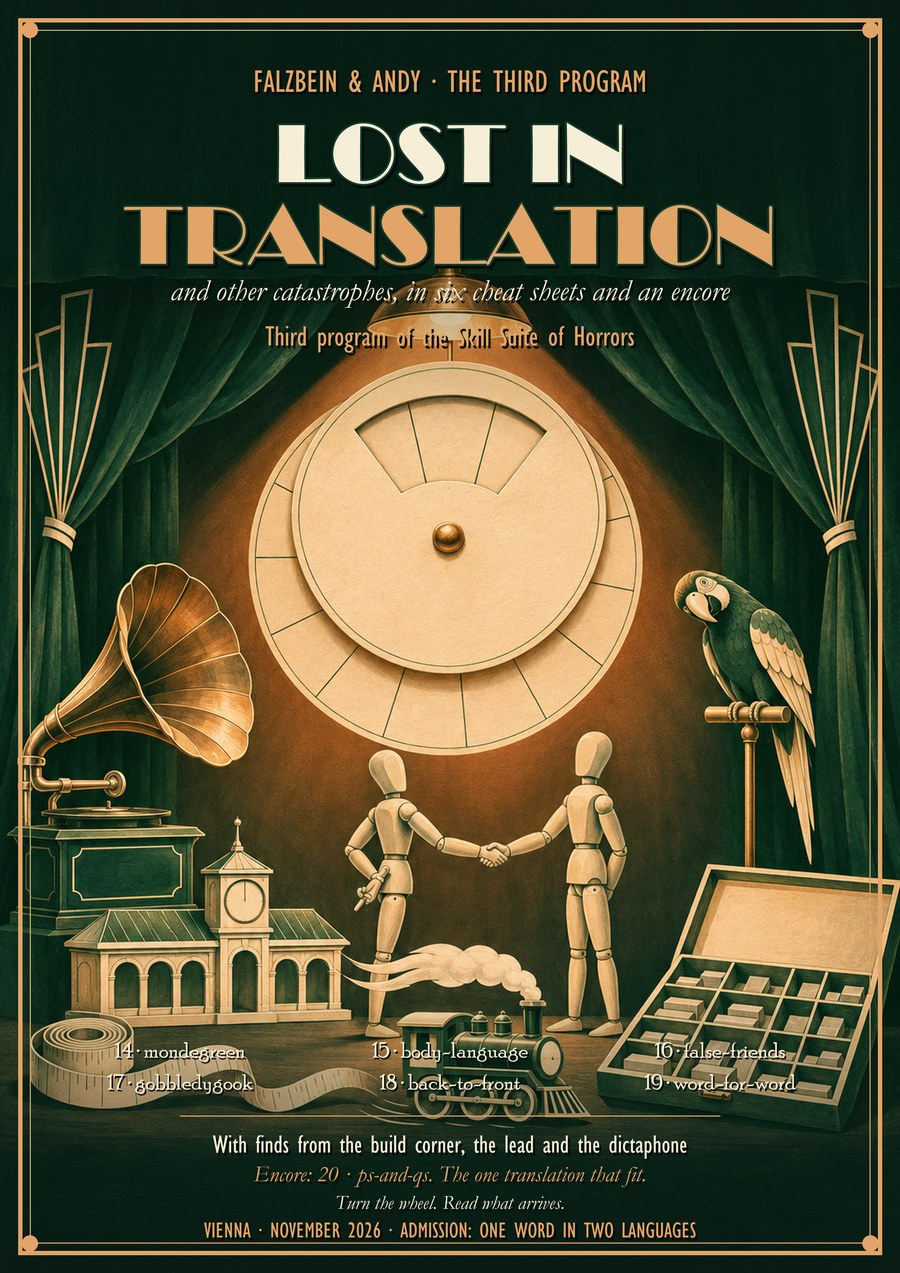
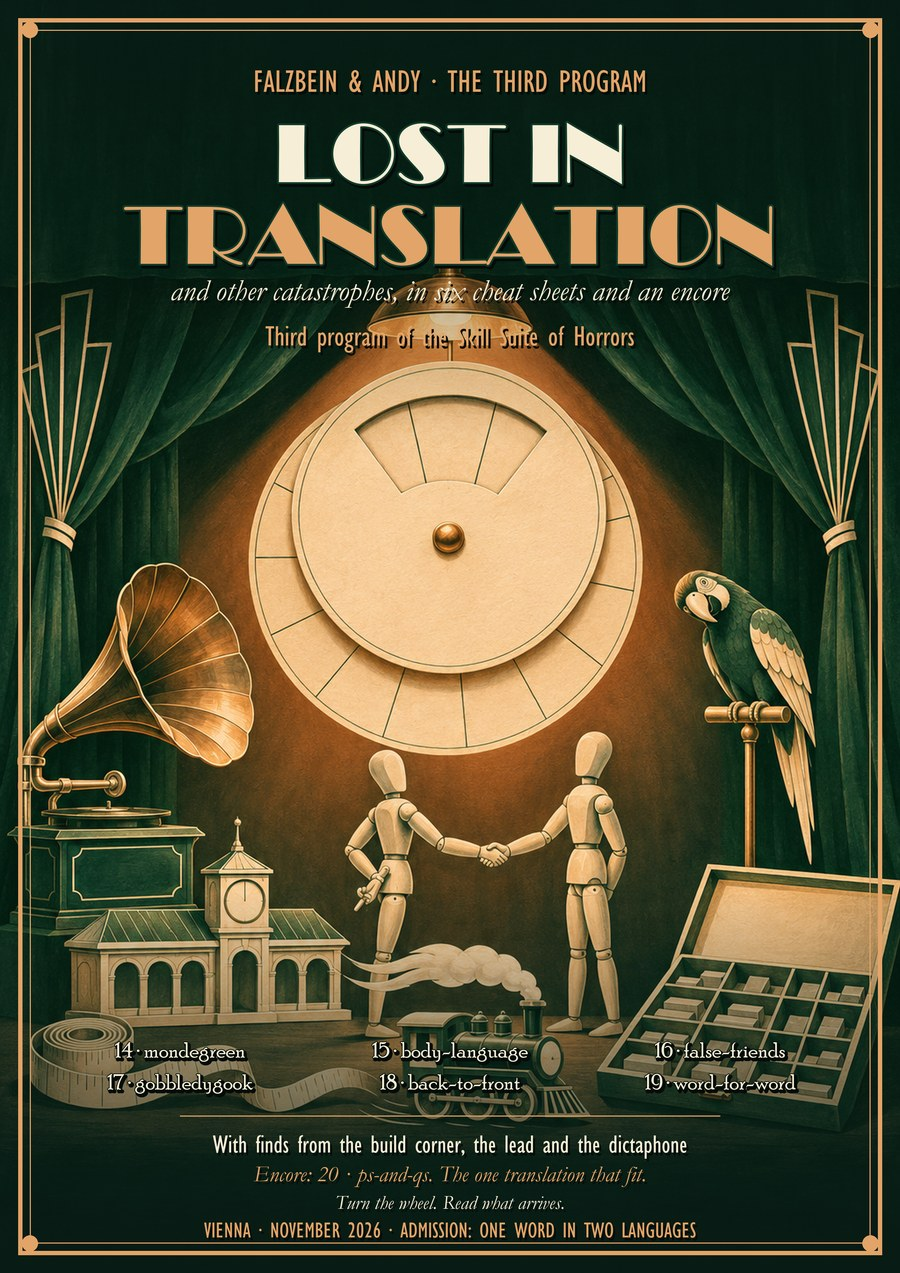
Plakate in Druckgröße 50 cm, 300 dpi
A2 (4961x7016) und A3 (3508x4961), je de/en, je mit 3 mm Beschnitt, nach plakat/druck/.
Schalter --format A2|A3 (Maße mit Höhe/3508 skaliert); ohne Schalter bleibt A4 bitgleich.
Bild ohne Schrift mit SeedVR2 x2 hochgerechnet (bild_ohne_schrift_x2.png), Rest bikubisch beim Satz.
Dazu Andys Wunsch: Verlauf unten ab 0,70 statt 0,78 und bis 235, Nummernzeilen mit kraeftigerem Schatten; A4, Webfassung und web/-Kopien neu gesetzt.

Claude-Session: https://claude.ai/code/session_01XH7iqJXtaJ97uteFv7J3Uh

Changed region(s): [[0.0311, 0.7046, 0.9956, 0.8885]]

diff --git a/plakat/plakat3.py b/plakat/plakat3.py
@@ -7,6 +7,15 @@ Elfenbein, Kupfer.
 
 Aufruf:  python plakat3.py [bild] [zielordner]     ohne Argumente: bild_ohne_schrift.png und dieser Ordner
 Schreibt plakat3_de.png / plakat3_en.png (A4, 300 dpi) und plakat3_de-web.jpg / plakat3_en-web.jpg (900 px breit).
+
+Druckfassung:  python plakat3.py --format A2|A3 [bild] [zielordner]
+A2 4961x7016, A3 3508x4961, 300 dpi, alle Maße mit Höhe/3508 skaliert; Bild ist dann
+bild_ohne_schrift_x2.png (SeedVR2 x2), Ziel druck/. Schreibt plakat3_<de|en>_<F>.png,
+_beschnitt.png (3 mm = 35 px ringsum, Rahmen und Schrift an derselben Stelle) und _vorschau.jpg.
+
+12.11.2026, auf Andys Wort: Die Nummernzeilen unten waren schlecht lesbar, weil das Bild dort hell
+ist. Der dunkle Verlauf unten beginnt darum bei 0,70 statt 0,78 der Höhe und geht bis 235 statt 215,
+und die Nummern tragen einen kräftigeren Schatten (mit Kontur).
 """
 import os
 import sys
@@ -20,7 +29,29 @@ KUPFER = (226, 164, 104)
 ELFENBEIN = (246, 238, 214)
 DUNKEL = (8, 26, 20)
 KONTUR = (18, 58, 42)
+SCHATTEN = (4, 12, 9)
 RAND = 260
+UNTEN_AB, UNTEN_BIS = 0.70, 235  # dunkler Verlauf unten: Beginn (Anteil der Höhe), Deckkraft am Fuß
+
+FORMATE = {"A2": (4961, 7016), "A3": (3508, 4961)}
+BESCHNITT = 35  # 3 mm bei 300 dpi
+FORMAT = None
+OFF = 0
+K = 1.0
+
+
+def formatieren(name):
+    """Stellt Endformat, Beschnitt und Maßfaktor für A2 oder A3 ein."""
+    global W, H, FORMAT, OFF, K
+    FORMAT = name
+    W, H = FORMATE[name]
+    OFF = BESCHNITT
+    K = H / 3508
+
+
+def m(v):
+    """Ein Maß des A4-Satzes; im Druckformat mit Höhe/3508 skaliert, sonst unverändert."""
+    return v if FORMAT is None else round(v * K)
 
 
 def font(name, size):
@@ -28,26 +59,28 @@ def font(name, size):
 
 
 def grund(pfad):
+    cw, ch = W + 2 * OFF, H + 2 * OFF
     quelle = Image.open(pfad).convert("RGB")
-    s = H / quelle.height
-    bild = quelle.resize((round(quelle.width * s), H), Image.BICUBIC)
-    if bild.width < W:
-        s = W / quelle.width
-        bild = quelle.resize((W, round(quelle.height * s)), Image.BICUBIC)
-    x0 = (bild.width - W) // 2
-    y0 = (bild.height - H) // 2
-    img = bild.crop((x0, y0, x0 + W, y0 + H))
-    maske = Image.new("L", (W, H), 0)
+    s = ch / quelle.height
+    bild = quelle.resize((round(quelle.width * s), ch), Image.BICUBIC)
+    if bild.width < cw:
+        s = cw / quelle.width
+        bild = quelle.resize((cw, round(quelle.height * s)), Image.BICUBIC)
+    x0 = (bild.width - cw) // 2
+    y0 = (bild.height - ch) // 2
+    img = bild.crop((x0, y0, x0 + cw, y0 + ch))
+    maske = Image.new("L", (cw, ch), 0)
     md = ImageDraw.Draw(maske)
-    for y in range(H):
-        if y < H * 0.36:
-            a = int(200 * (1 - y / (H * 0.36)) ** 1.2)
-        elif y > H * 0.78:
-            a = int(215 * ((y - H * 0.78) / (H * 0.22)) ** 0.9)
+    for y in range(ch):
+        yy = min(max(y - OFF, 0), H - 1)
+        if yy < H * 0.36:
+            a = int(200 * (1 - yy / (H * 0.36)) ** 1.2)
+        elif yy > H * UNTEN_AB:
+            a = int(UNTEN_BIS * ((yy - H * UNTEN_AB) / (H * (1 - UNTEN_AB))) ** 0.9)
         else:
             a = 0
-        md.line([(0, y), (W, y)], fill=a)
-    img.paste(Image.new("RGB", (W, H), DUNKEL), (0, 0), maske)
+        md.line([(0, y), (cw, y)], fill=a)
+    img.paste(Image.new("RGB", (cw, ch), DUNKEL), (0, 0), maske)
     return img
 
 
@@ -57,44 +90,50 @@ def setzen(bildpfad, t, zielordner, name):
 
     def mitte(text, y, fname, size, fill=ELFENBEIN, stroke=0):
         while True:
-            f = font(fname, size)
+            f = font(fname, m(size))
             b = d.textbbox((0, 0), text, font=f, stroke_width=stroke)
-            if b[2] - b[0] <= W - RAND or size < 30:
+            if b[2] - b[0] <= W - m(RAND) or size < 30:
                 break
             size -= 4
-        x = (W - (b[2] - b[0])) / 2 - b[0]
-        d.text((x + 6, y + 8), text, font=f, fill=(4, 12, 9), stroke_width=stroke, stroke_fill=(4, 12, 9))
-        d.text((x, y), text, font=f, fill=fill, stroke_width=stroke, stroke_fill=KONTUR)
+        x = (W - (b[2] - b[0])) / 2 - b[0] + OFF
+        d.text((x + m(6), y + m(8) + OFF), text, font=f, fill=SCHATTEN, stroke_width=stroke, stroke_fill=SCHATTEN)
+        d.text((x, y + OFF), text, font=f, fill=fill, stroke_width=stroke, stroke_fill=KONTUR)
         return y + (b[3] - b[1])
 
-    d.rectangle([50, 50, W - 50, H - 50], outline=KUPFER, width=12)
-    d.rectangle([82, 82, W - 82, H - 82], outline=KUPFER, width=3)
-    for cx, cy in ((82, 82), (W - 82, 82), (82, H - 82), (W - 82, H - 82)):
-        d.ellipse([cx - 22, cy - 22, cx + 22, cy + 22], fill=KUPFER)
+    d.rectangle([m(50) + OFF, m(50) + OFF, W - m(50) + OFF, H - m(50) + OFF], outline=KUPFER, width=m(12))
+    d.rectangle([m(82) + OFF, m(82) + OFF, W - m(82) + OFF, H - m(82) + OFF], outline=KUPFER, width=m(3))
+    for cx, cy in ((m(82), m(82)), (W - m(82), m(82)), (m(82), H - m(82)), (W - m(82), H - m(82))):
+        d.ellipse([cx - m(22) + OFF, cy - m(22) + OFF, cx + m(22) + OFF, cy + m(22) + OFF], fill=KUPFER)
 
-    y = 170
-    y = mitte(t["ueber"], y, "GILC____.TTF", 88, KUPFER) + 55
-    y = mitte(t["titel1"][0], y, "BROADW.TTF", t["titel1"][1], ELFENBEIN, 5) + 45
-    y = mitte(t["titel2"][0], y, "BROADW.TTF", t["titel2"][1], KUPFER, 5) + 60
-    y = mitte(t["unter"], y, "GARAIT.TTF", 84, ELFENBEIN) + 45
+    y = m(170)
+    y = mitte(t["ueber"], y, "GILC____.TTF", 88, KUPFER) + m(55)
+    y = mitte(t["titel1"][0], y, "BROADW.TTF", t["titel1"][1], ELFENBEIN, m(5)) + m(45)
+    y = mitte(t["titel2"][0], y, "BROADW.TTF", t["titel2"][1], KUPFER, m(5)) + m(60)
+    y = mitte(t["unter"], y, "GARAIT.TTF", 84, ELFENBEIN) + m(45)
     mitte(t["art"], y, "GILC____.TTF", 80, KUPFER)
 
-    prog = font("POORICH.TTF", 60)
+    prog = font("POORICH.TTF", m(60))
     yu = int(H * 0.815)
     for i, text in enumerate(t["nummern"]):
         spalte, zeile = i % 3, i // 3
-        x = [W * 0.20, W * 0.50, W * 0.80][spalte]
+        x = [W * 0.20, W * 0.50, W * 0.80][spalte] + OFF
         b = d.textbbox((0, 0), text, font=prog)
-        d.text((x - (b[2] - b[0]) / 2 + 4, yu + zeile * 88 + 5), text, font=prog, fill=(4, 12, 9))
-        d.text((x - (b[2] - b[0]) / 2, yu + zeile * 88), text, font=prog, fill=ELFENBEIN)
-    yu += 2 * 88 + 40
-    d.line([(W * 0.2, yu), (W * 0.8, yu)], fill=KUPFER, width=3)
-    yu += 35
-    yu = mitte(t["besetzung"], yu, "GILC____.TTF", 70, ELFENBEIN) + 26
-    yu = mitte(t["gast"], yu, "GARAIT.TTF", 62, KUPFER) + 24
-    yu = mitte(t["satz"], yu, "GARAIT.TTF", 54, ELFENBEIN) + 30
+        # kräftiger Schatten: versetzt und mit Kontur, dazu eine schmale dunkle Kontur um die Schrift
+        d.text((x - (b[2] - b[0]) / 2 + m(5), yu + zeile * m(88) + m(6) + OFF), text, font=prog, fill=SCHATTEN,
+               stroke_width=m(4), stroke_fill=SCHATTEN)
+        d.text((x - (b[2] - b[0]) / 2, yu + zeile * m(88) + OFF), text, font=prog, fill=ELFENBEIN,
+               stroke_width=m(2), stroke_fill=SCHATTEN)
+    yu += 2 * m(88) + m(40)
+    d.line([(W * 0.2 + OFF, yu + OFF), (W * 0.8 + OFF, yu + OFF)], fill=KUPFER, width=m(3))
+    yu += m(35)
+    yu = mitte(t["besetzung"], yu, "GILC____.TTF", 70, ELFENBEIN) + m(26)
+    yu = mitte(t["gast"], yu, "GARAIT.TTF", 62, KUPFER) + m(24)
+    yu = mitte(t["satz"], yu, "GARAIT.TTF", 54, ELFENBEIN) + m(30)
     mitte(t["fuss"], yu, "GILC____.TTF", 62, KUPFER)
 
+    if FORMAT:
+        from druck_speichern import speichern
+        return speichern(img, OFF, zielordner, name + "_" + FORMAT)
     a4 = os.path.join(zielordner, name + ".png")
     web = os.path.join(zielordner, name + "-web.jpg")
     img.save(a4, dpi=(300, 300))
@@ -131,7 +170,15 @@ EN = dict(
 )
 
 if __name__ == "__main__":
-    bild = sys.argv[1] if len(sys.argv) > 1 else os.path.join(HIER, "bild_ohne_schrift.png")
-    ziel = sys.argv[2] if len(sys.argv) > 2 else HIER
+    args = sys.argv[1:]
+    if "--format" in args:
+        stelle = args.index("--format")
+        wahl = args[stelle + 1].upper()
+        del args[stelle:stelle + 2]
+        if wahl not in FORMATE:
+            sys.exit("--format A2 oder A3")
+        formatieren(wahl)
+    bild = args[0] if len(args) > 0 else os.path.join(HIER, "bild_ohne_schrift_x2.png" if FORMAT else "bild_ohne_schrift.png")
+    ziel = args[1] if len(args) > 1 else (os.path.join(HIER, "druck") if FORMAT else HIER)
     setzen(bild, DE, ziel, "plakat3_de")
     setzen(bild, EN, ziel, "plakat3_en")

diff --git a/plakat/druck_speichern.py b/plakat/druck_speichern.py
@@ -1,0 +1,40 @@
+# -*- coding: utf-8 -*-
+"""Speichert eine Druckfassung der Kabarett-Plakate (gemeinsam für plakat*.py und plakate_en.py).
+
+Die Leinwand trägt ringsum `off` Pixel Beschnitt. Daraus entstehen:
+    <name>_beschnitt.png   ganze Leinwand (Endformat + 3 mm ringsum)
+    <name>.png             Endformat (Leinwand ohne Beschnitt)
+    <name>_vorschau.jpg    900 px breit, zum Ansehen
+PNG mit 300 dpi (pHYs) und sRGB-Profil (iCCP), sonst ohne Metadaten: Das Bild wird über
+den rohen Pixelpuffer neu aufgebaut, damit nichts aus der Quelle mitkommt.
+"""
+import os
+
+from PIL import Image
+
+SRGB_WINDOWS = os.path.join(os.environ.get("SystemRoot", "C:" + chr(92) + "Windows"),
+                            "System32", "spool", "drivers", "color", "sRGB Color Space Profile.icm")
+
+
+def srgb_profil():
+    if os.path.exists(SRGB_WINDOWS):
+        with open(SRGB_WINDOWS, "rb") as datei:
+            return datei.read()
+    from PIL import ImageCms
+    return ImageCms.ImageCmsProfile(ImageCms.createProfile("sRGB")).tobytes()
+
+
+def speichern(leinwand, off, ziel, name):
+    os.makedirs(ziel, exist_ok=True)
+    rgb = leinwand.convert("RGB")
+    rgb = Image.frombytes("RGB", rgb.size, rgb.tobytes())
+    profil = srgb_profil()
+    beschnitt = os.path.join(ziel, name + "_beschnitt.png")
+    rgb.save(beschnitt, dpi=(300, 300), icc_profile=profil)
+    end = rgb.crop((off, off, rgb.width - off, rgb.height - off))
+    endformat = os.path.join(ziel, name + ".png")
+    end.save(endformat, dpi=(300, 300), icc_profile=profil)
+    vorschau = os.path.join(ziel, name + "_vorschau.jpg")
+    end.resize((900, round(end.height * 900 / end.width)), Image.LANCZOS).save(vorschau, quality=88)
+    print("ok", endformat, end.size, "|", beschnitt, rgb.size)
+    return endformat, beschnitt, vorschau
